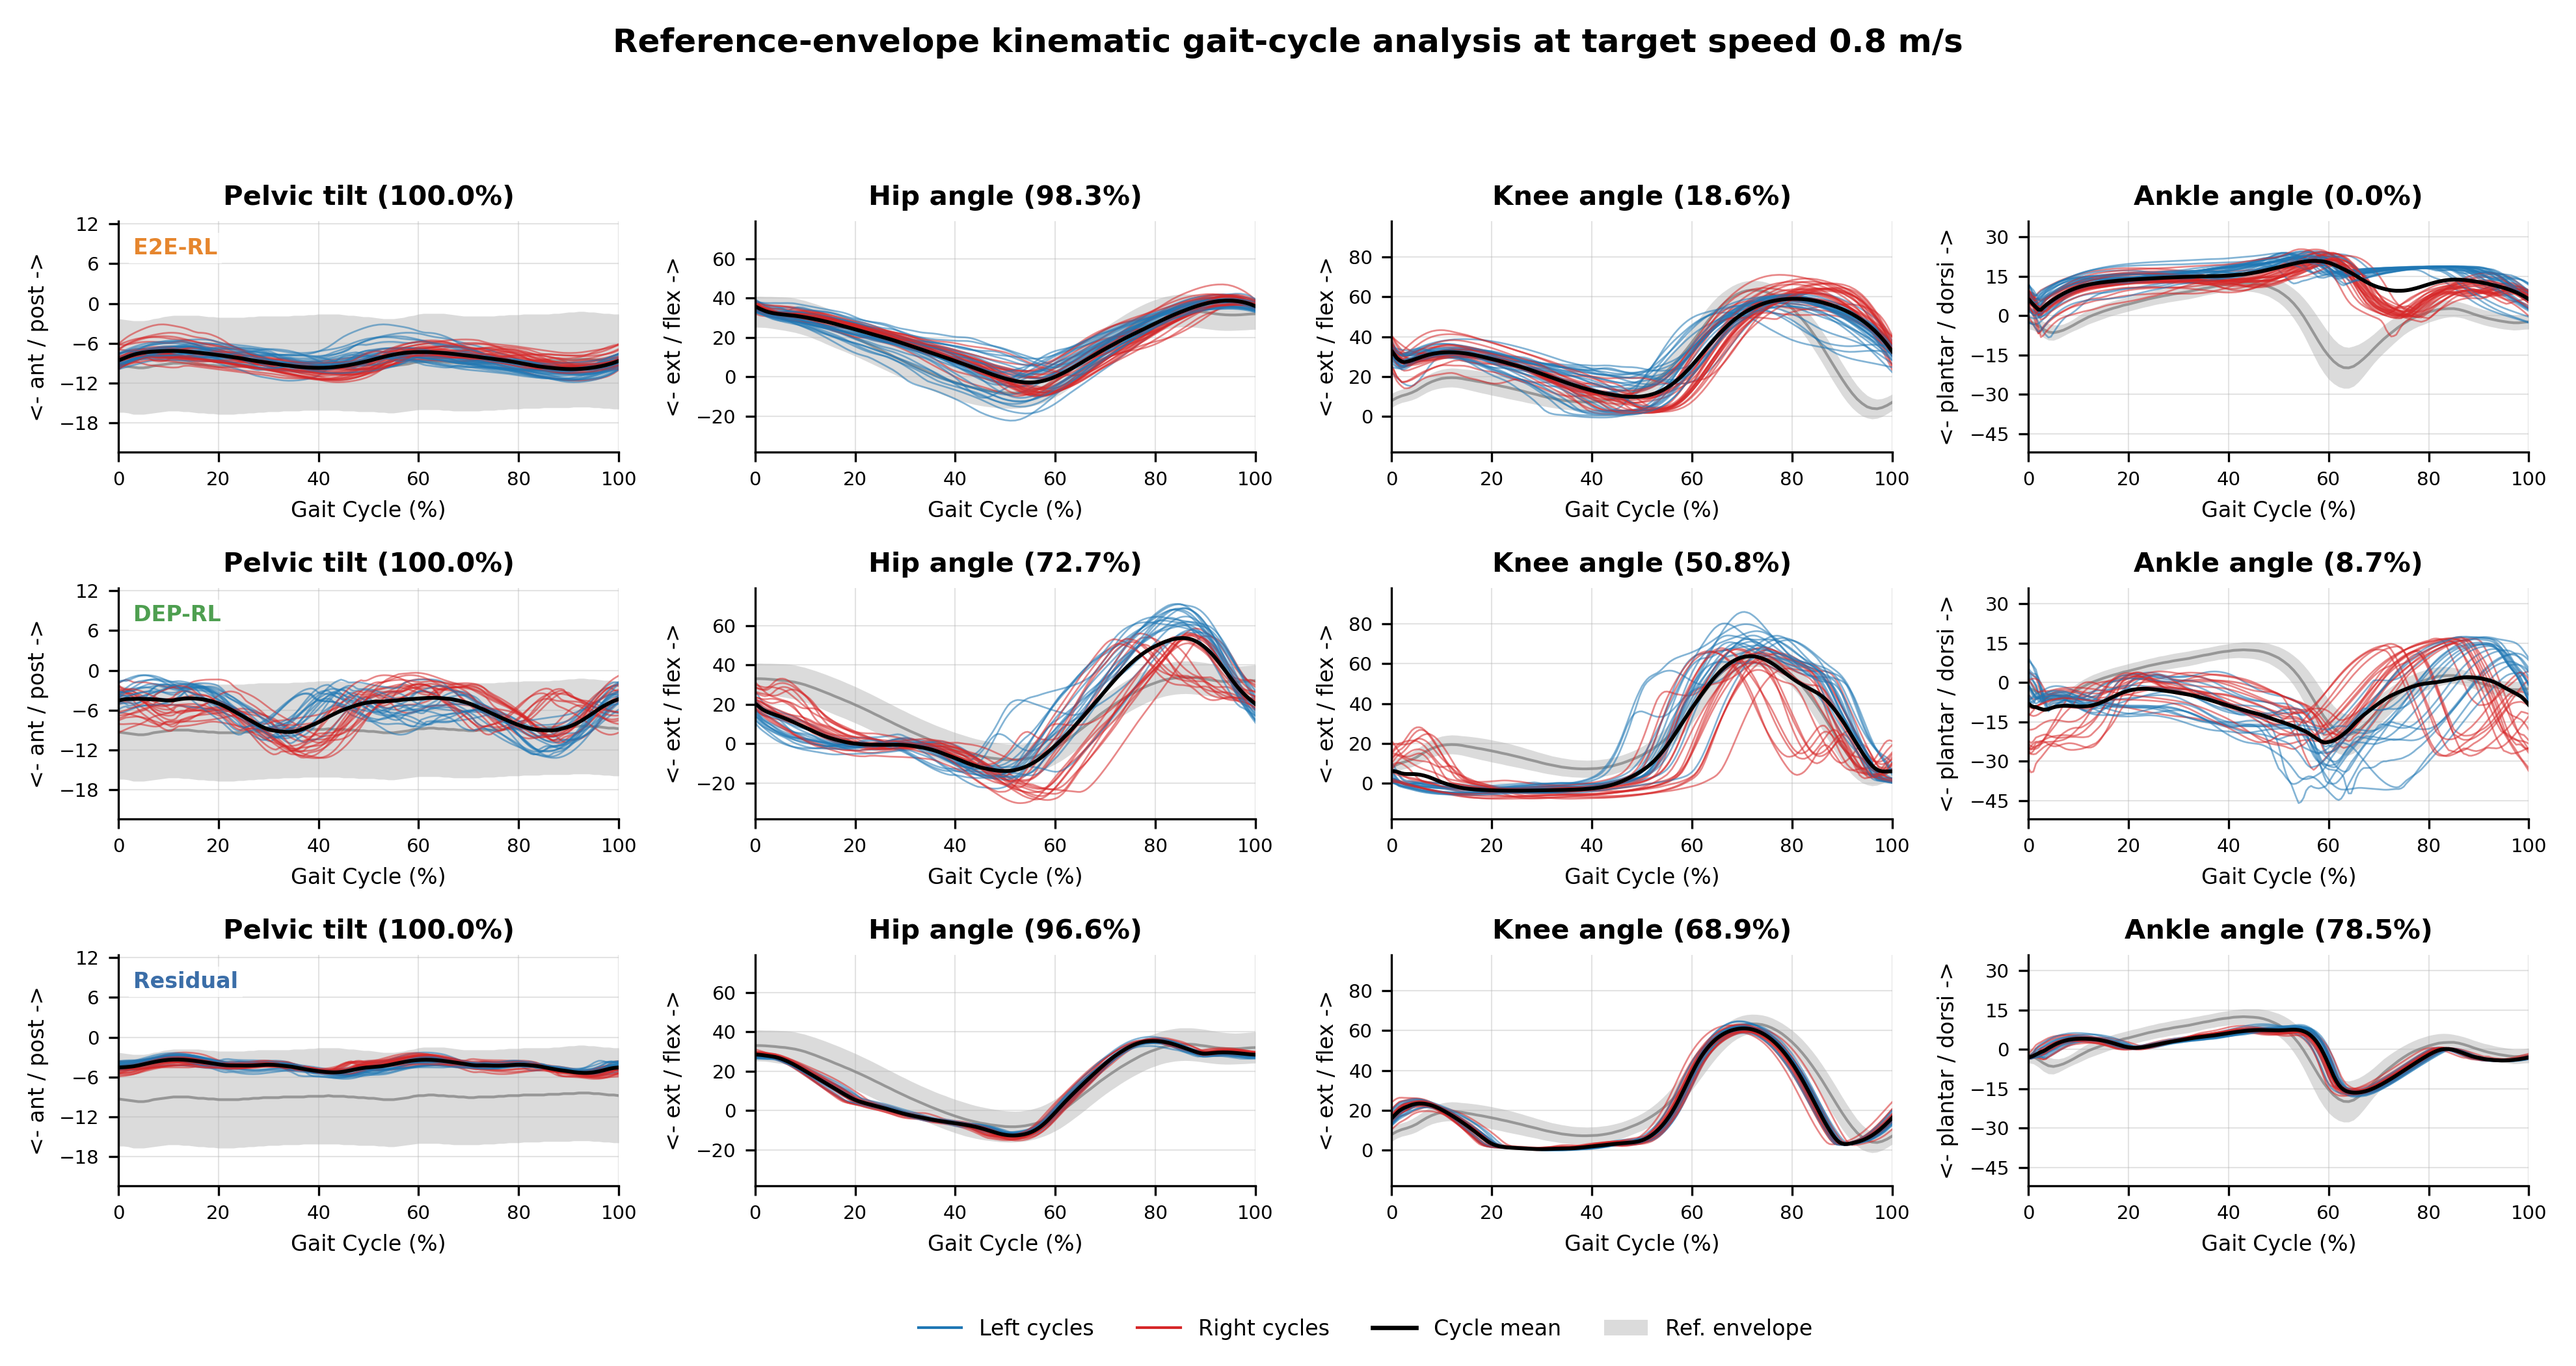
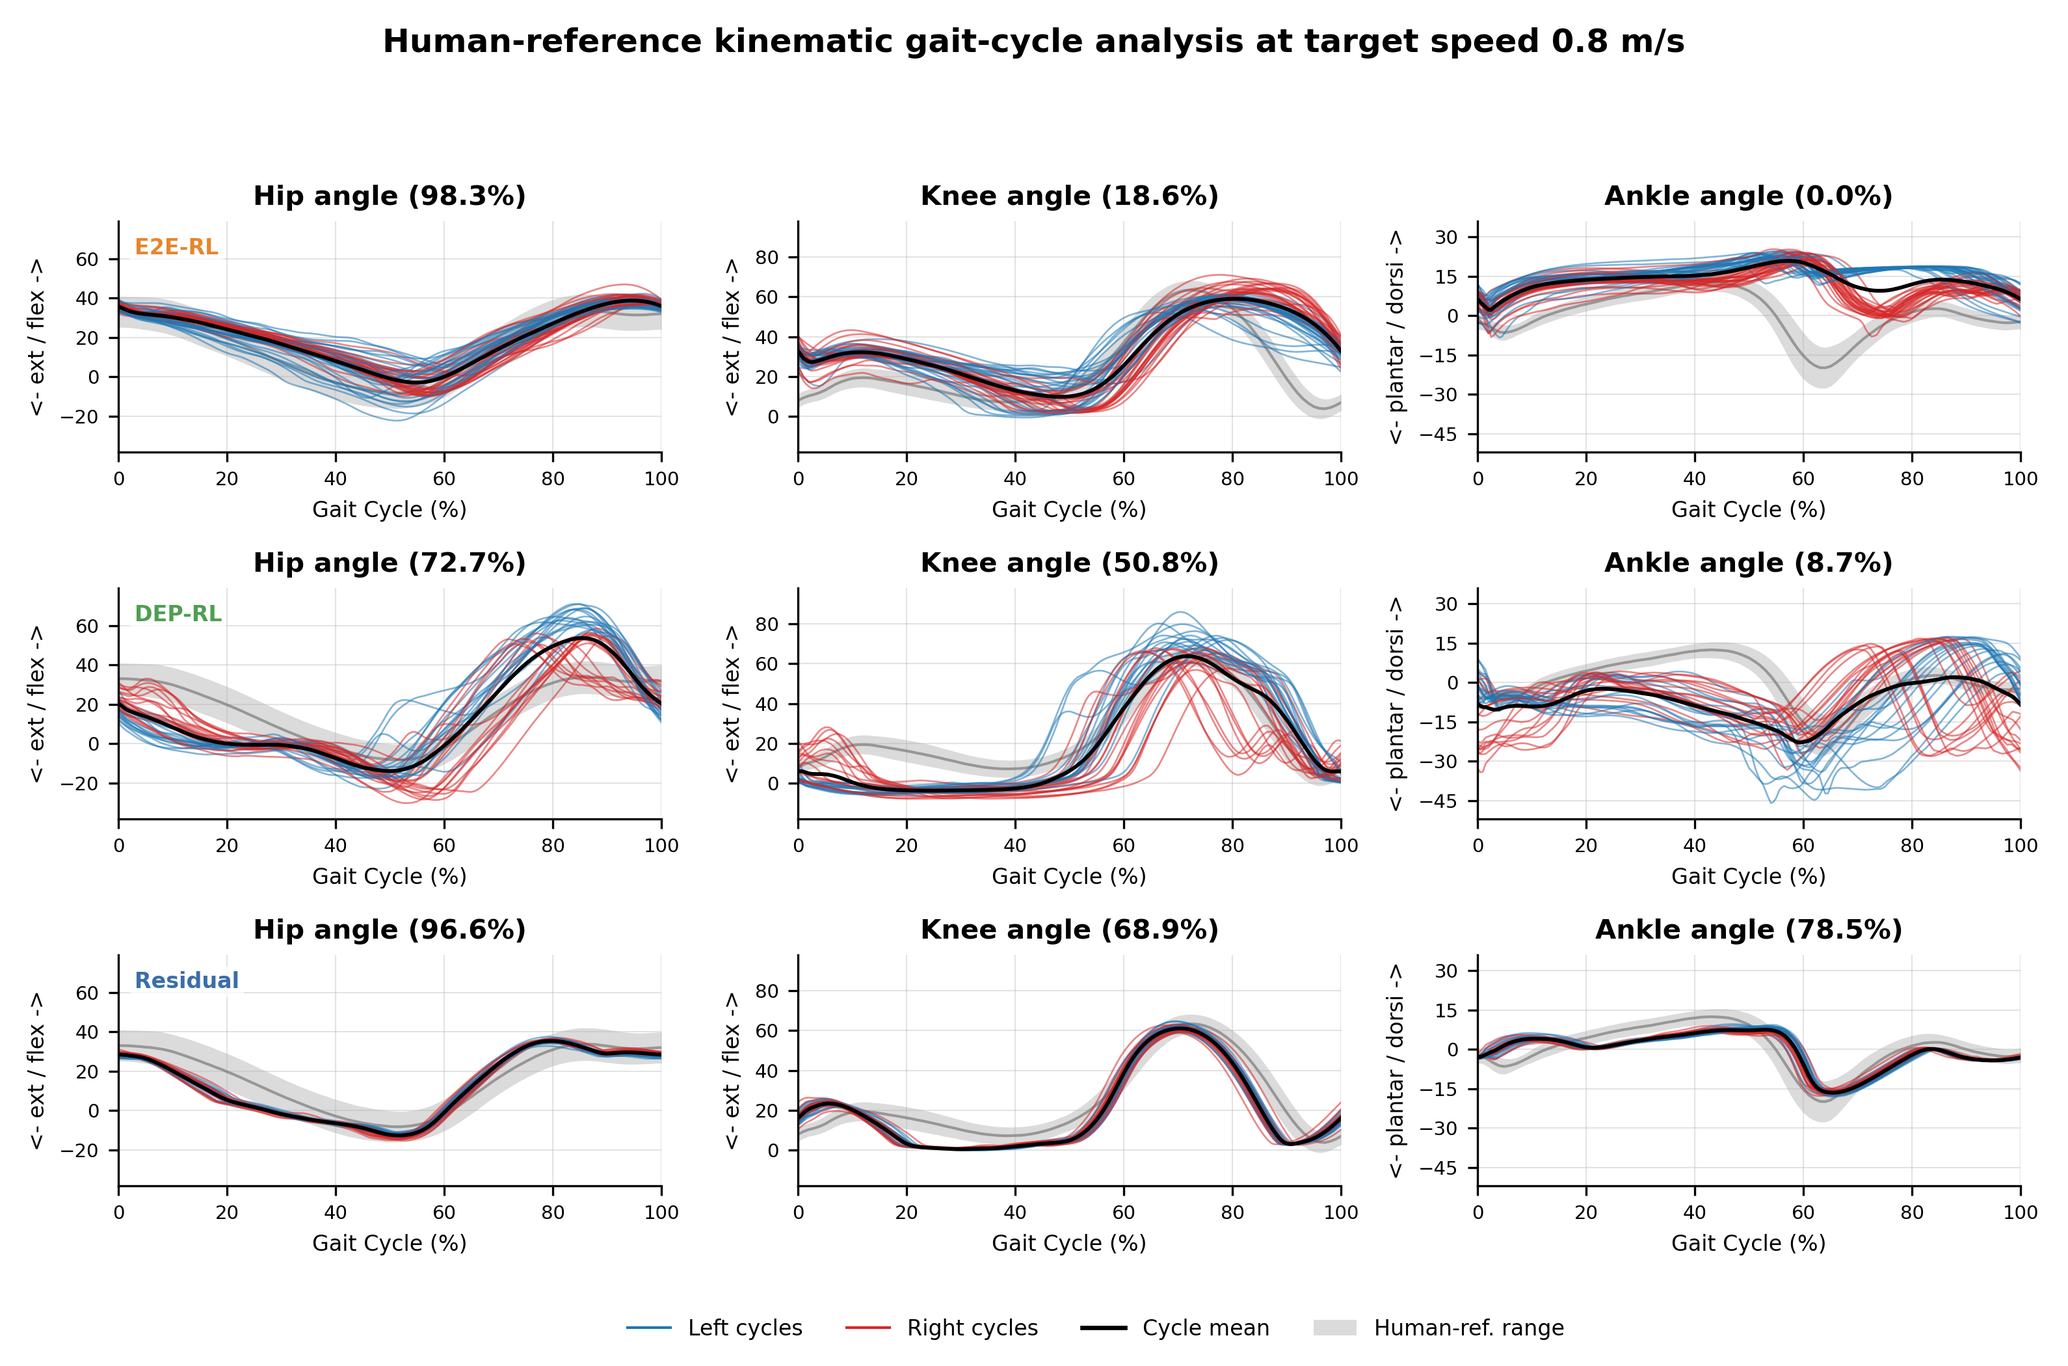
Separate kinematic and GRF nominal analyses

diff --git a/main.tex b/main.tex
@@ -373,10 +373,10 @@ stride length and stride time describe the gait strategy used to achieve the
 target speed. The stride measures were computed from the detected gait cycles
 in each evaluated trajectory.
 
-\subsubsection{Human-reference gait analysis}
-To quantify whether the generated motion resembles human walking, we compared
-the simulated gait-cycle profiles with human-reference gait data for pelvic
-tilt, hip angle, knee angle, ankle angle, and vertical GRF. The gray bands in
+\subsubsection{Human-reference kinematic gait analysis}
+To quantify whether the generated joint motion resembles human walking, we
+compared the simulated gait-cycle profiles with human-reference gait data for
+hip angle, knee angle, and ankle angle. The gray bands in
 the profile figures denote lower and upper bounds derived from the reference
 data. They were used only for post-hoc evaluation and were not included in the
 policy reward.
@@ -401,8 +401,8 @@ S = 100 \cdot \mathrm{clip}(1-e,0,1).
 \end{equation}
 Higher scores indicate that the averaged trajectory remains closer to the
 human-reference range; a score of 100 means that the mean profile stays entirely
-inside the reference bounds. The overall gait score is the average of the
-pelvic, hip, knee, ankle, and GRF component scores.
+inside the reference bounds. The kinematic average score is the mean of the hip,
+knee, and ankle component scores.
 
 \subsubsection{GRF morphology}
 Because vertical GRF directly reflects stance loading and push-off behavior, we
@@ -410,8 +410,8 @@ also visualize individual left and right GRF gait cycles. This analysis is used
 to assess whether the controller produces repeatable stance-phase loading,
 reasonable double-support/propulsion morphology, and avoids abnormal impact
 peaks. The numerical GRF score is the GRF component of the human-reference
-metric above, while the cycle plots show left--right and stride-to-stride
-consistency.
+range metric, applied separately to vertical GRF, while the cycle plots show
+left--right and stride-to-stride consistency.
 
 \subsubsection{Symmetry and repeatability}
 Finally, bilateral symmetry was quantified as the root-mean-square difference
@@ -526,55 +526,52 @@ speed.}
 }
 \end{table}
 
-\subsubsection{Human-reference gait analysis}
-The gait-cycle scores reveal a clearer separation between the three methods.
-As listed in Table~\ref{tab:gait_similarity}, Residual-Reflex RL achieved the highest
-overall human-reference score, with an average score of 89.9\%,
-compared with 64.9\% for E2E-RL and 51.3\% for DEP-RL. The main differences appear in the knee,
-ankle, and vertical GRF components, where the Residual-Reflex RL controller more
-consistently preserved reference-like joint coordination and stance-phase
-loading. E2E-RL retained relatively high hip scores, and in some cases high
-ankle scores, but its knee and GRF scores were much less consistent. DEP-RL did
-not improve this pattern in the present validation data; its overall score was
-lower than E2E-RL at 1.0 and 1.2~m/s, mainly because of poor GRF agreement.
-Scores close to zero indicate that the averaged profile lies outside the
-reference envelope over most of the normalized gait cycle, rather than a small
-localized deviation.
-This contrast is important because E2E-RL and DEP-RL can complete the
-speed-tracking task, yet their gait cycles can still deviate substantially from
-reference kinematics and contact dynamics.
+\subsubsection{Human-reference kinematic gait analysis}
+The kinematic gait-cycle scores reveal a clearer separation between the three
+methods. As listed in Table~\ref{tab:gait_similarity}, Residual-Reflex RL
+achieved the highest kinematic-average score at all three speeds, with an
+average of 88.0\% across the 0.8, 1.0, and 1.2~m/s tests. The improvement is
+most evident in the knee and ankle profiles, where the residual-reflex
+controller more consistently preserved reference-like joint coordination.
+E2E-RL retained relatively high hip scores, and in some cases high ankle
+scores, but its knee score was much less consistent. DEP-RL did not improve this
+pattern in the present validation data, especially at 1.2~m/s. Scores close to
+zero indicate that the averaged joint profile lies outside the human-reference
+range over most of the normalized gait cycle, rather than a small localized
+deviation. This contrast is important because E2E-RL and DEP-RL can complete the
+speed-tracking task, yet their joint trajectories can still deviate
+substantially from human-reference kinematics.
 The bar chart in Fig.~\ref{fig:gait_score_bars} makes this contrast visible:
-Residual-Reflex RL improves the overall score mainly by lifting the knee,
-ankle, and GRF components, rather than by only matching one isolated joint. In
-contrast, E2E-RL can obtain a high hip score while still failing in ankle or GRF
-components, showing that a single joint profile can look acceptable even when
-the full gait pattern is not reference-consistent.
+Residual-Reflex RL improves the kinematic-average score by producing more
+consistent hip, knee, and ankle profiles, rather than by matching only one
+isolated joint. In contrast, E2E-RL can obtain a high hip score while still
+showing poor knee or ankle agreement, which motivates the waveform-level
+inspection in Figs.~\ref{fig:gait_profiles_08}--\ref{fig:gait_profiles_12}.
 
 \begin{table}[!t]
 \centering
-\caption{Human-reference gait scores in controlled walking
-validation. Scores are computed from normalized gait-cycle kinematics and
-vertical GRF.}
+\caption{Human-reference kinematic scores in controlled walking validation.
+Scores are computed from normalized hip, knee, and ankle gait-cycle profiles.}
 \label{tab:gait_similarity}
 \small
 \setlength{\tabcolsep}{3.5pt}
 \renewcommand{\arraystretch}{1.12}
 \resizebox{\columnwidth}{!}{%
-\begin{tabular}{l l r r r r r r}
+\begin{tabular}{l l r r r r r}
 \toprule
-\textbf{Target} & \textbf{Method} & \textbf{Real.} & \textbf{Overall} & \textbf{Hip} & \textbf{Knee} & \textbf{Ankle} & \textbf{GRF} \\
+\textbf{Target} & \textbf{Method} & \textbf{Real.} & \textbf{Kin. avg.} & \textbf{Hip} & \textbf{Knee} & \textbf{Ankle} \\
 \midrule
-0.8 & E2E-RL & 0.87 & 50.5 & \textbf{98.3} & 18.6 & 0.0 & 35.9 \\
- & DEP-RL & 0.83 & 54.4 & 72.7 & 50.8 & 8.7 & 39.8 \\
- & Residual-Reflex RL & 0.79 & \textbf{84.2} & 96.6 & \textbf{68.9} & \textbf{78.5} & \textbf{76.7} \\
+0.8 & E2E-RL & 0.87 & 39.0 & \textbf{98.3} & 18.6 & 0.0 \\
+ & DEP-RL & 0.83 & 44.1 & 72.7 & 50.8 & 8.7 \\
+ & Residual-Reflex RL & 0.79 & \textbf{81.3} & 96.6 & \textbf{68.9} & \textbf{78.5} \\
 \midrule
-1.0 & E2E-RL & 1.18 & 74.7 & 81.2 & 72.7 & \textbf{91.8} & 27.6 \\
- & DEP-RL & 1.14 & 55.1 & 62.5 & 64.2 & 48.7 & 0.0 \\
- & Residual-Reflex RL & 1.05 & \textbf{92.3} & \textbf{100.0} & \textbf{82.6} & 88.9 & \textbf{89.8} \\
+1.0 & E2E-RL & 1.18 & 81.9 & 81.2 & 72.7 & \textbf{91.8} \\
+ & DEP-RL & 1.14 & 58.5 & 62.5 & 64.2 & 48.7 \\
+ & Residual-Reflex RL & 1.05 & \textbf{90.5} & \textbf{100.0} & \textbf{82.6} & 88.9 \\
 \midrule
-1.2 & E2E-RL & 1.26 & 69.6 & 88.4 & 52.4 & 85.9 & 21.5 \\
- & DEP-RL & 1.30 & 44.5 & 44.5 & 33.4 & 44.5 & 0.0 \\
- & Residual-Reflex RL & 1.21 & \textbf{93.2} & \textbf{99.6} & \textbf{88.7} & \textbf{88.6} & \textbf{89.1} \\
+1.2 & E2E-RL & 1.26 & 75.6 & 88.4 & 52.4 & 85.9 \\
+ & DEP-RL & 1.30 & 40.8 & 44.5 & 33.4 & 44.5 \\
+ & Residual-Reflex RL & 1.21 & \textbf{92.3} & \textbf{99.6} & \textbf{88.7} & \textbf{88.6} \\
 \bottomrule
 \end{tabular}%
 }
@@ -582,9 +579,9 @@ vertical GRF.}
 
 \begin{figure}[!t]
 \centerline{\includegraphics[width=\columnwidth]{gait_score_comparison_bars.png}}
-\caption{Human-reference gait scores across target speeds. Numeric
+\caption{Human-reference kinematic gait scores across target speeds. Numeric
 labels indicate the score of each bar. The Residual-Reflex RL controller achieves
-the highest overall score and especially improves knee, ankle, and GRF
+the highest kinematic-average score and especially improves knee and ankle
 components.}
 \label{fig:gait_score_bars}
 \end{figure}
@@ -599,7 +596,7 @@ were closer to the nominal walking pattern, but Residual-Reflex RL still
 produced the most compact waveform set and the highest overall score. At
 1.2~m/s, where the gait requires faster stance-to-swing transitions, the
 difference became clearer: Residual-Reflex RL kept the knee and ankle
-trajectories clustered around the reference envelopes, while E2E-RL and DEP-RL
+trajectories clustered around the human-reference ranges, while E2E-RL and DEP-RL
 showed larger deviations or more scattered cycles. These speed-dependent
 waveform observations are consistent with the knee and ankle scores in
 Table~\ref{tab:gait_similarity}.
@@ -608,8 +605,8 @@ animation: the blue and red gait cycles occupy a narrower region, meaning that
 successive steps and the two legs follow more similar trajectories. For the
 direct muscle-control methods, the larger spread indicates that different steps
 within the same trial can use noticeably different joint coordination patterns.
-The GRF component is analyzed separately below because contact loading is not
-always visually apparent from joint snapshots alone.
+GRF morphology is analyzed separately below because contact loading is not
+directly captured by joint-angle profiles alone.
 
 \begin{figure}[!t]
 \centerline{\includegraphics[width=\columnwidth]{gait_analysis_residual_vs_e2e_0p8.png}}
@@ -648,7 +645,7 @@ some snapshots; this explains why its GRF scores were much lower than its hip
 or ankle scores. DEP-RL produced even larger early-stance peaks and
 stride-to-stride fluctuations at 1.0 and 1.2~m/s, leading to near-zero GRF
 agreement in those cases. In the GRF metric, a score of 0.0 means that the mean
-force profile stays outside the reference envelope after normalization, which
+force profile stays outside the human-reference range after normalization, which
 matches the large impact-like peaks and irregular unloading visible in the DEP-RL
 panels. Residual-Reflex RL avoided these sharp loading transients and achieved
 the highest GRF scores at all three speeds.
